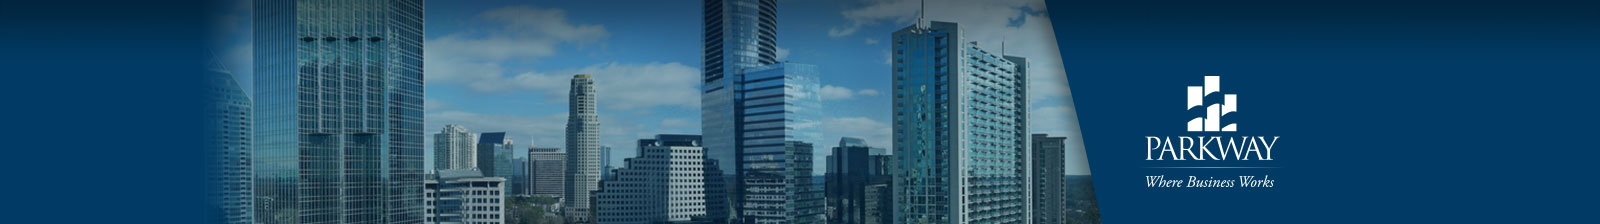
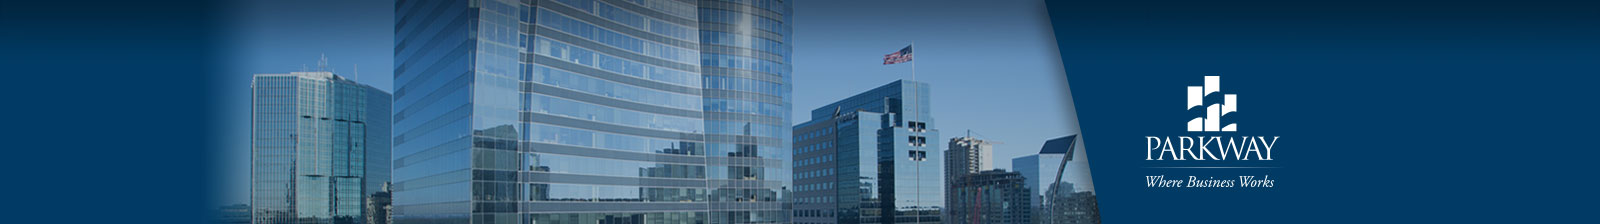
10/15/14
Changes per client, new images in header, adjusted fancy box script

diff --git a/css/pky.css b/css/pky.css
@@ -117,7 +117,8 @@
 .clearfix { zoom: 1; }
 
 /* Globals */
-body, footer { width: 100%; min-width: 1600px; }
+html { min-width: 1360px; }
+body, footer { width: 100%; }
 header, footer { min-width: 100%; /*width: 100%;*/ }
 header, main.content, div.available_space_wrapper, div.secondary, footer { margin: 0 auto; width: 100%; position: relative; overflow: visible; }
 main.content { overflow: hidden; }
@@ -613,27 +614,26 @@ footer li { font-size: 0.8em; }
 ----------------------------------------------------------------------------------------------------*/
 
 @media (min-width:1800px) { 
-	body.market header { min-height:780px; } 
+	body.market header { min-height:720px; } 
 }
 @media (min-width:1700px) and (max-width:1799px) { 
-	body.market header { min-height:730px; } 
+	body.market header { min-height:685px; } 
 }
 @media (min-width:1600px) and (max-width:1699px) { 
-	body.market header { min-height:680px; } 
+	body.market header { min-height:650px; } 
+}
+@media (min-width:1500px) and (max-width:1599px) { 
+	body.market header { min-height:615px; } 
 }
 @media (min-width:1600px) {
 	div#quick_search_container, #menu { font-size: .9em; }
 	div#quick_search_container { padding: 30px 0 0 1em; }
 }
-@media (min-width:1500px) and (max-width:1599px) { 
-	body.market header { min-height:630px; } 
-}
 @media (min-width:1400px) and (max-width:1499px) { 
-	body.market header { min-height:580px; } 
+	body.market header { min-height:585px; } 
 }
 @media (max-width:1400px) { 
 	div[id*="_img"] { margin: 0; background-position: -124px 0!important; }
-
 	div.navbar_wrapper,
 	main.content > div.container_12,
 	div.secondary,
@@ -642,18 +642,15 @@ footer li { font-size: 0.8em; }
 	div.market_callout,
 	div.market_lead .container_12,
 	div.market_lead + section.container_12 { width: auto; }
-
 	div.navbar_wrapper,
 	div.secondary, div.secondary > .container_12,
 	div.available_space { padding-left: 1em; }
-
 	main.content > div.container_12,
 	.secondary.container_12,
 	div#footer_content,
 	div.market_callout,
 	div.market_lead .container_12,
 	div.market_lead + section.container_12 { padding-left: 84px; }
-
 	div#footer_content { width: 1200px; margin: 0; }
 	div.navbar_wrapper .pull_1,
 	div.secondary_wrap .pull_1,
@@ -663,13 +660,16 @@ footer li { font-size: 0.8em; }
 	div#footercol6 { float: left; }
 }
 @media (min-width:1300px) and (max-width:1399px) { 
-	body.market header { min-height:530px; } 
+	body.market header { min-height:550px; } 
 }
-@media (max-width:1299px) { 
-	body.market header { max-height:480px; background-size: 100% 100%; }
+@media (min-width:1201px) and (max-width:1299px) { 
+	body.market header { min-height:515px; } 
 }
-@media (max-width:1200px) {
-	body { width: 1200px; }
+@media (min-width:1200px) { 
+	body.market header { background-position: 50% 50%; }
+}
+@media (max-width:1200px) { 
+	body.market header { /*max-height:480px;*/ background-position: 50% top; }
 }
 @media (max-width:1024px) {
 	body.home .slide_copy { bottom: 3em; }

diff --git a/available-space.html b/available-space.html
@@ -25,7 +25,7 @@
 				<a class="map_link" id="orlando" title="Orlando, FL" href="http://pky.com/available-space/florida/orlando"><div class="primary_market">Orlando</div></a>
 				<a class="map_link" id="tampa" title="Tampa, FL" href="http://pky.com/available-space/florida/tampa"><div class="primary_market">Tampa</div></a>
 				<a class="map_link" id="ft_lauderdale" title="Ft. Lauderdale, FL" href="http://pky.com/available-space/florida/ft-lauderdale"><div class="secondary_market">Ft. Lauderdale</div></a>
-				<a class="map_link" id="miami" title="Miami, FL" href="http://pky.com/available-space/florida/miami"><div class="primary_market">Miami</div></a>
+				<a class="map_link" id="miami" title="Miami, FL" href="http://pky.com/available-space/florida/miami"><div class="secondary_market">Miami</div></a>
 			</div><!-- .map_image -->
 		</div><!-- .container_12 -->
 		<div class="secondary_wrap" id="available_markets">

diff --git a/css/rs-minimal-white.css b/css/rs-minimal-white.css
@@ -3,7 +3,7 @@
 .rsMinW .rsOverflow,
 .rsMinW .rsSlide,
 .rsMinW .rsVideoFrameHolder,
-.rsMinW .rsThumbs { background: #FFF; color: #FFF; }
+.rsMinW .rsThumbs { background: #004677; color: #FFF; }
 
 .rsMinW .rsArrow { height: 32px; width: 32px; position: absolute; display: block; cursor: pointer; z-index: 21; }
 .rsMinW .rsArrowLeft { right: 37px; bottom: 7px; }

diff --git a/footer-listing.html b/footer-listing.html
@@ -72,7 +72,7 @@ $(".fancybox").fancybox({
     autoCenter: true,
     // aspectRatio: true,
     iframe : {
-        preload: true
+        preload: false
     }
 });
 </script>

diff --git a/gruntfile.js b/gruntfile.js
@@ -1,6 +1,6 @@
 module.exports = function(grunt) {
 	grunt.initConfig({
-
+		pkg: grunt.file.readJSON('package.json'),
 	});
 
 	grunt.registerTask('default');
